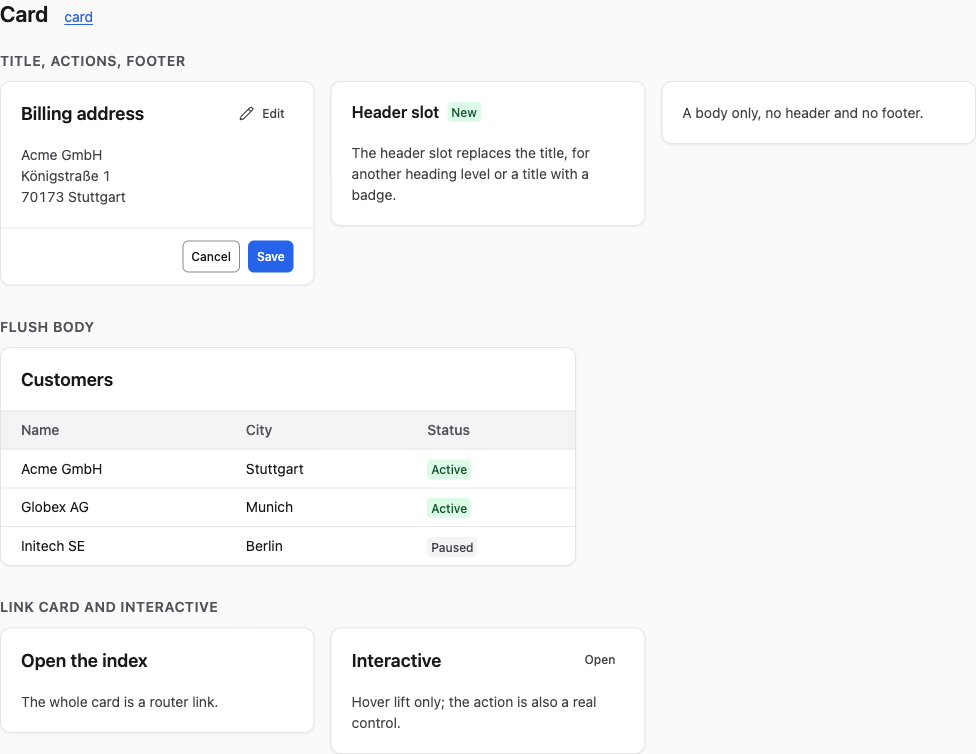
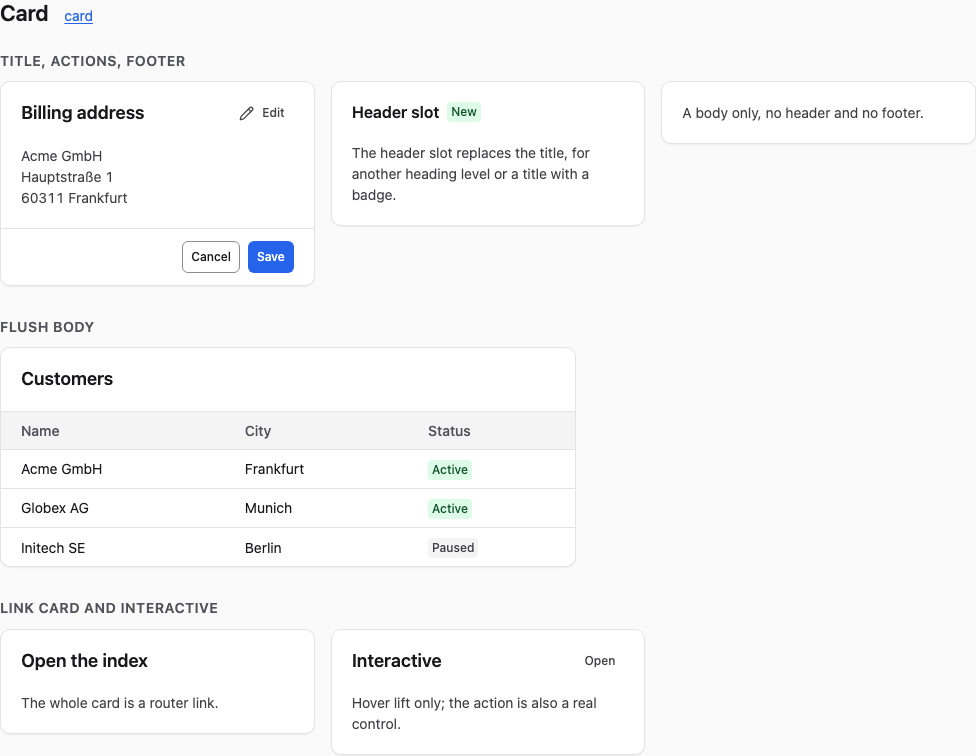
demo: neutral city in the Card, Menu, Popover, Sheet and Table demos, screenshots rendered again

diff --git a/ui/Card/Card.demo.vue b/ui/Card/Card.demo.vue
@@ -5,7 +5,7 @@ import Button from '../Button/Button.vue'
 import Icon from '../Icon/Icon.vue'
 
 const rows = [
-  { name: 'Acme GmbH', city: 'Stuttgart', status: 'Active' },
+  { name: 'Acme GmbH', city: 'Frankfurt', status: 'Active' },
   { name: 'Globex AG', city: 'Munich', status: 'Active' },
   { name: 'Initech SE', city: 'Berlin', status: 'Paused' },
 ]
@@ -17,7 +17,7 @@ const rows = [
     <div class="grid">
       <Card title="Billing address">
         <template #actions><Button size="sm" variant="ghost"><template #icon><Icon name="pencil" /></template>Edit</Button></template>
-        <p>Acme GmbH<br>Königstraße 1<br>70173 Stuttgart</p>
+        <p>Acme GmbH<br>Hauptstraße 1<br>60311 Frankfurt</p>
         <template #footer>
           <Button size="sm">Cancel</Button>
           <Button size="sm" variant="primary" data-action="updateBillingAddress">Save</Button>

diff --git a/ui/Sheet/Sheet.demo.vue b/ui/Sheet/Sheet.demo.vue
@@ -8,7 +8,7 @@ import Input from '../Input/Input.vue'
 const edit = ref(false)
 const filters = ref(false)
 const history = ref(false)
-const customer = ref({ name: 'Acme GmbH', email: 'billing@acme.example', city: 'Stuttgart' })
+const customer = ref({ name: 'Acme GmbH', email: 'billing@acme.example', city: 'Frankfurt' })
 </script>
 
 <template>
@@ -36,7 +36,7 @@ const customer = ref({ name: 'Acme GmbH', email: 'billing@acme.example', city: '
         <p class="muted">3 active</p>
       </template>
       <div class="stack">
-        <Field label="City"><Input model-value="Stuttgart" name="city" /></Field>
+        <Field label="City"><Input model-value="Frankfurt" name="city" /></Field>
         <Field label="Created after"><Input model-value="2026-01-01" name="createdAfter" type="date" /></Field>
       </div>
       <template #actions>

diff --git a/ui/Table/Table.demo.vue b/ui/Table/Table.demo.vue
@@ -7,7 +7,7 @@ import Icon from '../Icon/Icon.vue'
 interface Customer { id: number; name: string; email: string; status: 'active' | 'trial' | 'paused'; revenue: number; city: string }
 
 const customers: Customer[] = [
-  { id: 1, name: 'Acme GmbH', email: 'billing@acme.example', status: 'active', revenue: 48200, city: 'Stuttgart' },
+  { id: 1, name: 'Acme GmbH', email: 'billing@acme.example', status: 'active', revenue: 48200, city: 'Frankfurt' },
   { id: 2, name: 'Borealis AG', email: 'finance@borealis.example', status: 'trial', revenue: 0, city: 'Zürich' },
   { id: 3, name: 'Cobalt Systems', email: 'ap@cobalt.example', status: 'active', revenue: 12950, city: 'Munich' },
   { id: 4, name: 'Delta Freight', email: 'office@delta.example', status: 'paused', revenue: 3100, city: 'Hamburg' },

diff --git a/ui/Menu/Menu.demo.vue b/ui/Menu/Menu.demo.vue
@@ -29,7 +29,7 @@ onMounted(() => preview.value?.toggle())
     <h2>Row actions (default trigger, align end)</h2>
     <div class="row">
       <span class="name">Acme GmbH</span>
-      <span class="muted">Stuttgart</span>
+      <span class="muted">Frankfurt</span>
       <Menu :items="rowItems" label="Actions for Acme GmbH" />
     </div>
     <p class="muted">last activated: {{ last }}</p>

diff --git a/ui/Popover/Popover.demo.vue b/ui/Popover/Popover.demo.vue
@@ -6,7 +6,7 @@ import Field from '../Field/Field.vue'
 import Icon from '../Icon/Icon.vue'
 import Input from '../Input/Input.vue'
 
-const city = ref('Stuttgart')
+const city = ref('Frankfurt')
 const applied = ref('none')
 const filterOpen = ref(false)
 const ranges = ['Today', 'Last 7 days', 'Last 30 days', 'This year']
